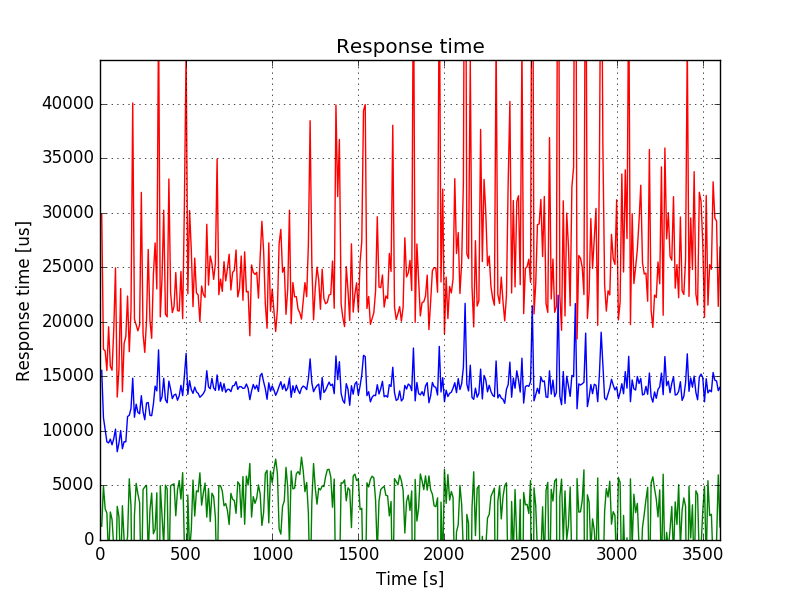
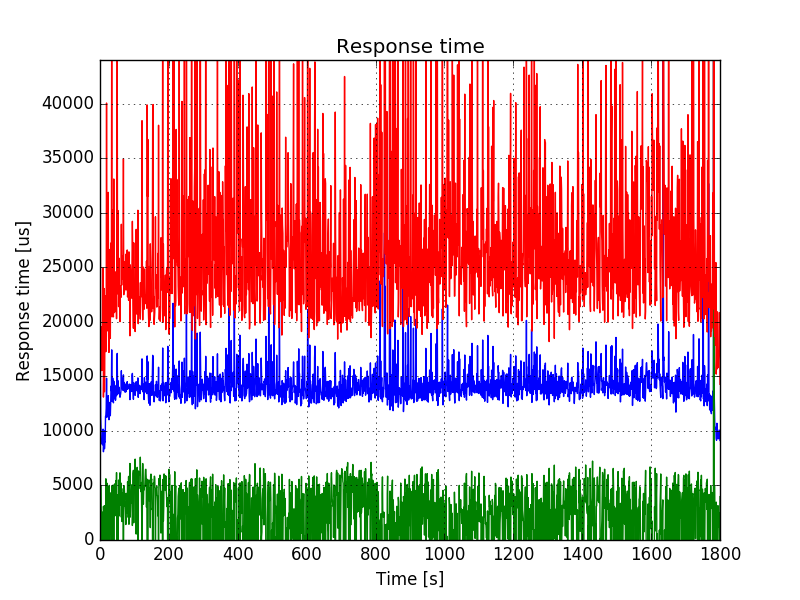
Add mising statistics for m/m/1

diff --git a/reports/milestone3/milestone3.tex b/reports/milestone3/milestone3.tex
@@ -86,13 +86,15 @@ Build an M/M/1 model of your entire system based on the stability trace that you
 
 In M/M/1 model we have one queue and one server. As server we will consider memcached server. Since there are actually 3 memcached servers processing requests, we will have to calculate the service rate accordingly. We do not consider clients as a part of our system - as the system we take our middleware and connected memcached servers.
 
-For this model we take server discipline First Come First Served, with no buffer limitations. The population size is 192 clients and the system is a closed one.
+For this model we take server discipline First Come First Served, with no buffer limitations. The population size is 192 clients and the system is a closed one. All values have been calculated based on formulas in Box 31.1 from the course book.
+
+In order to provide more detailed analysis I have enhanced logging inside the middleware (see the appendix for detailed changes). Therefore I had to rerun the stability trace (plots provided in the appendix) as well as other experiments, from which data is used in the next sections. Logs for the repeated stability trace are in files: mm1\_1, mm1\_2, mm1\_3, mm1\_parsed (see appendix for links). I run the new experiment for 30 minutes (which was enough to prove that the system was stable and to gather appropriate data).
 
 Throughput measured by the memaslap clients was equal to 13758 operations/second. Therefore, I take arrival rate $\lambda = 13758 \textrm{ ops/s}$.
 
 One approach to calculate the service rate is to take maximum throughput measured during the experiment. This approach has been suggested during the tutorial and gives us a lower bound on a service rate. This is because if system was able at some point in time to have this performance, it means that it is able to perform at least that well. Since the running time of the experiment was pretty long (30 minutes), we can assume that this approximation is good enough.
 
-Another approach to do this would be to calculate the number of requests being actively processed in the middleware, which corresponds to the average parallelism in the middleware. We would then assume that the service time is average time spent in the servers divided by the number of active threads. We still would need to take into the account that this time includes requests being sent over the network, but we could also treat network as a queue. Since servers have only 1 thread working the requests will partially wait in the queue of the server and partially this waiting period will be included in the time spent in the network. However, this approach proved to be inaccurate. For this task I got the following results: on average 38.15 getter threads are busy processing requests and there are on average 1.05 requests in all setter threads (there are 3 of them). So, on average, there are $m = 39.21$ on the fly (sum based on more precise numbers). That would mean service rate approximately 13893 requests/second and would result in a very high utilization - around 99\%. For the second task, however, utilization calculated using this approach resulted in utilization over 1. This is because in order to use this method we have to assume that memcached servers are busy almost all the time and time spent in the network, even without network, would be spent in the queue. However, this is not the case and therefore results of this method are unsatisfactory. 
+Another approach to do this would be to calculate the number of requests being actively processed in the middleware, which corresponds to the average parallelism in the middleware. We would then assume that the service time is average time spent in the servers divided by the number of active threads. We still would need to take into the account that this time includes requests being sent over the network, but we could also treat network as a queue. Since servers have only 1 thread working the requests will partially wait in the queue of the server and partially this waiting period will be included in the time spent in the network. However, this approach proved to be inaccurate. For this task I got the following results: on average 38.15 getter threads are busy processing requests and there are on average 1.05 requests in all setter threads (there are 3 of them). So, on average, there are $m = 39.21$ on the fly (sum based on more precise numbers). That would mean service rate approximately 13893 requests/second and would result in a very high utilization - around 99\%. For the second task, however, utilization calculated using this approach was over 1. This is because in order to use this method we have to assume that memcached servers are busy almost all the time and time spent in the network, even without network, would be spent in the queue. However, this is not the case and therefore results of this method are unsatisfactory. 
 
 %I had to improve the logging in my middleware (see apendix) in order to log also current numbers of busy getter threads and number of requests processed currently by setter requests (i.e. number of set requests that have been taken out of the queue but the response for them has not yet been sent to the client). This made it necessary to repeat the experiment.
 
@@ -103,20 +105,18 @@ $\mu = 16701\textrm{ req/s}$.
 %$$\mu \approx \frac{39.21}{2841.63} \cdot 10^6 \textrm{ requests/second} \approx 13892.53 \textrm{ requests/second}$$
 %In order to calculate mean service rate which includes that many requests are processed in parallel, I had to find out the average number of requests being in the service. In order to do that I had to make some changes in my code (described in the appendix) i I 
 This enables us to calculate the offered load:
-$\rho \approx 82.38\%$
-The offered load is below 1, which means that the system is stable.
-
-The utilization can be considered to be pretty high. It stems from the fact that for stability experiment I have used only 16 threads. As the experiments from second milestones have shown, for 16 threads we get worse performance than for the higher number of threads. This means that threads are mostly busy and since the high utilization of the system. What is more, the component that causes this high utilization is accepting thread. As I have pointed out in the report for milestone 2, this component at some point becomes the bottleneck of the system. For stability trace It was still not the case (too low number of threads), but this component either way is not that effective and affects the offered load.
-
-% Maybe remove
-It is also worth pointing out, that the average number of set requests being serviced is quite low, considering that there are 3 setter threads (one for each queue) which process requests asynchronously (one thread can process more than one requests at the same time). This is because set requests are only 1\% of all requests, so they are not many of them and although it takes longer to process them, the low number of them leads to low number of them being processed at the same time.
-
-The  probability that there are zero jobs in the system equals: $1 - \rho \approx 17.62\%$. 
-This result is not consistent with the data collected from the middleware. We can calculate that the first percentile of number of active getter threads is already equal 8. This means that 99\% of the time they are not less than 8 get requests being processed in the system. This contradicts result from the theory. This can be explained in a following way: M/M/1 models do not take into the account the possibility that several requests can be processed at the same time. Based on the high service rate from model we can get that the single request is processed really quickly, so that they don't queue that much. However, in reality, requests are processed for a longer time, but they are several requests processed in parallel. In a similar way, when we calculate the average number of requests in the system, we get contradicting results. We have:
+$\rho \approx 82.38\%$.
+The offered load is below 1, which means that the system is stable. It would mean that $82.38\%$ of the time the server is busy.
+%The utilization can be considered to be pretty high. It stems from the fact that for stability experiment I have used only 16 threads. As the experiments from second milestones have shown, for 16 threads we get worse performance than for the higher number of threads. This means that threads are mostly busy and since the high utilization of the system. What is more, the component that causes this high utilization is accepting thread. As I have pointed out in the report for milestone 2, this component at some point becomes the bottleneck of the system. For stability trace It was still not the case (too low number of threads), but this component either way is not that effective and affects the offered load.
+Consequently we get that the  probability that there are zero jobs in the system equals: $1 - \rho \approx 17.62\%$. 
+This result is not consistent with the data collected from the middleware. We can calculate that the first percentile of number of active getter threads is already equal 8. This means that 99\% of the time they are not less than 8 get requests being processed in the system. This contradicts result from the theory. This can be explained in a following way: M/M/1 models do not take into the account the possibility that several requests can be processed at the same time. Based on the high service rate from model we get that the single request is processed really quickly, so that they don't queue that much. However, in reality, requests are processed for a longer time, but they are several requests processed in parallel. In a similar way, when we calculate the average number of requests in the system, we get contradicting results. We have:
 $E[n] 
 %=\frac{\rho}{1 - \rho} \approx{82.38\%}/{17.62\%} 
 \approx 4.67$.
-We know from the collected logs that on average there are around 39 requests being processed at the same time. This means that they are at least 39 requests in the whole system. The reason for this discrepancy is the same as mentioned above - M/M/1 model does not consider the parallelism. 
+We know from the collected logs that on average there are around 39 requests being processed at the same time. This means that they are at least 39 requests in the whole system. The reason for this discrepancy is the same as mentioned above - M/M/1 model does not consider the parallelism. Variance for $n$ was calculated to be around $26.5$, measured value was equal around $118.5$, which is around $4.5$ times higher. This value is much smaller than the square ratio of mean values, which implies that the number of jobs in our system was, proportionally, less varied.
+
+% Remove if not enough space
+%It is also worth pointing out here, that measured average number of set requests being serviced is quite low, considering that there are 3 setter threads (one for each queue) which process requests asynchronously (one thread can process more than one requests at the same time). This is because set requests are only 1\% of all requests, so they are not many of them and although it takes longer to process them, the low number of them leads to low number of them being processed at the same time.
 
 When we take a look at calculated mean number of jobs in the queue and in the service we still see discrepancies, but there is one thing that is similar to measured values:
 $E[n_q] 
@@ -125,7 +125,7 @@ $E[n_q]
 $E[n_s] 
 %= \rho 
 \approx 0.82$.
-The ratio of jobs in the queue to jobs in the system is equal to $\rho \approx 0.823$ (simple formulas transformation). Under the assumption that almost all of 192 requests are in the system, we have that around 39 requests are being processed (see earlier) and therefore $192-39 = 153$ jobs are in the queue. The ratio between jobs in the queue and jobs in the system equals here to $\frac{153}{192} \approx 0.797$. These values are relatively close to each other, so we can say that this ration has been well predicted by our model.
+The ratio of jobs in the queue to jobs in the system is equal to $\rho \approx 0.823$ (simple formulas transformation). Under the assumption that almost all of 192 requests are in the system, we have that around 39 requests are being processed (see earlier) and therefore $192-39 = 153$ jobs are in the queue. The ratio between jobs in the queue and jobs in the system equals here to $\frac{153}{192} \approx 0.797$. These values are relatively close to each other, so we can say that this ration has been well predicted by our model. Variance for $n_q$ was calculated to equal around $25.0$ - we cannot, however, compare this with measured data, since we didn't provide appropriate logging facilities for that (we're not counting number of requests in the queue). 
 
 %The probability that there are $n$ jobs in the system equals approximately $p_n = 0.97\% \cdot 99.03\%^n$. We can also calculate how many requests are in system in total:
 %$$E[n] = \frac{\rho}{1 - \rho} \approx{99.03\%}/{0.98\%} \approx 102.52$$
@@ -142,10 +142,37 @@ $E[w]
 $E[s] 
 %= \frac{1}{\mu} 
 \approx \SI{59.88}{\micro\second}$.
-The corresponding values measured by the middleware equal: \SI{3203}{\micro\second} for time spent in the queue (which is part of the system representation) and \SI{2841}{\micro\second} for the time spend in the servers. We can see that measured time spent in the servers is approximately 47 times higher then calculated service time. This value is comparable to 39 requests on the fly (mentioned earlier), but it better corresponds to the parallelism of the middleware, since it also reflects the fact that servers do not have to be busy all the time. Let's not forget here that requests also spend some time waiting for the accepting thread to be parsed, so that the difference between waiting time predicted and measured is even higher.
+The corresponding values measured by the middleware equal: \SI{3203}{\micro\second} for time spent in the queue (which is part of the system representation) and \SI{2841}{\micro\second} for the time spend in the servers. We can see that measured time spent in the servers is approximately 47 times higher then calculated service time. This value is comparable to 39 requests on the fly (mentioned earlier), but it better corresponds to the parallelism of the middleware, since it also reflects the fact that servers do not have to be busy all the time. Below we present some more statistics:
+%Let's not forget here that requests also spend some time waiting for the accepting thread to be parsed, so that the difference between waiting time predicted and measured is even higher.
 
-%TODO: more statistics
-To sum up, M/M/1 model does not reflect our middleware properly. It does not take into the account the parallelism and predicted values differ significantly. I have not included calculations for more values, like variance or percentiles, cause they also won't correspond to the values measured by the middleware.
+{\small
+\begin{center}
+\begin{tabular}{|c|c|c|c|c|}
+\hline & $Var[r]$ ($\SI{}{\micro\second}^2$) & 90-th perc. $r$ ($\SI{}{\micro\second}$) & Var[w] ($\SI{}{\micro\second}^2$) & 90-th perc. $w$ ($\SI{}{\micro\second}^2$)\\
+\hline Calculated & 115482 & 781 & 111896 & 717\\
+\hline Measured & 180146340 & 13993 & 117574816 & 10476 \\
+\hline Ratio & 1560 &  17.9 & 1051 & 14.6\\
+\hline
+\end{tabular}
+\end{center}
+}
+We can clearly see that measured statistics are much higher, because of the parallelism and the fact that corresponding mean values are also higher. Bigger difference in variance is because when calculating variance we are dealing with squares, so the values are also bigger (and so is the ratio).
+
+Another statistics calculated based on the model, but not comparable to the measured values (not enough measured data) are as follows:
+
+{\small
+\begin{center}
+\begin{tabular}{|c|c|}
+\hline Mean number of jobs served in one busy period & 5.7 \\
+\hline Variance of number of jobs served in one busy period & 274.7 \\
+\hline Mean busy period duration & \SI{340}{\micro\second} \\
+\hline Variance of the busy period & $\SI{539929}{\micro\second}^2$ \\
+\hline
+\end{tabular}
+\end{center}
+}
+
+To sum up, M/M/1 model does not reflect our middleware properly. It does not take into the account the parallelism and predicted values differ significantly.
 
 % TODO: explain
 %$$E[r] = \frac{1/\mu^2}{(1 - \rho)^2} \approx \frac{1/13893^2}{0.97\%^2}$$
@@ -570,30 +597,41 @@ As we can see from above table, the interactive response time law corresponds we
 
 \pagebreak
 
+\section*{Logfile listing}
+
+\begin{tabular}{|c|p{12.0cm}|}
+\hline \textbf{Short name }& \textbf{Location} \\ 
+\hline  mm1\_1 & \url{https://gitlab.inf.ethz.ch/matusiaa/asl-fall16-project/blob/master/logs/milestone3/mm1_1.log}\\ 
+\hline mm1\_2 & \url{https://gitlab.inf.ethz.ch/matusiaa/asl-fall16-project/blob/master/logs/milestone3/mm1_2.log}\\ 
+\hline mm1\_3 & \url{https://gitlab.inf.ethz.ch/matusiaa/asl-fall16-project/blob/master/logs/milestone3/mm1_3.log}\\ 
+\hline mm1\_parsed & \url{https://gitlab.inf.ethz.ch/matusiaa/asl-fall16-project/blob/master/logs/milestone3/mm1_parsed.log}\\ 
+\hline 
+\end{tabular}
+
+\pagebreak
+
 \section*{Appendix}
 
 \subsection{Changes in the source code}
-In order to measure the number of requests being actively processed in the middleware I had to enrich my source code in 2 counters - one keeping track of number of active getter workers, the other one keeping track of set requests for which response we are waiting from the servers. With these 2 counters is connected a necessary synchronization (all getter threads have access to the first counter, all setter threads have access to the second counter), which may decrease the performance of the middleware slightly.
-% TODO: add that it doesn't influence it significantly 
+In order to measure the number of requests being actively processed in the middleware I had to enrich my source code in 2 counters - one keeping track of number of active getter workers, the other one keeping track of set requests for which response we are waiting from the servers. With these 2 counters is connected a necessary synchronization (all getter threads have access to the first counter, all setter threads have access to the second counter), which might have decreased the performance of the middleware slightly. For repeated stability trace we got lower throughput: 13758 ops/s, compared to the original experiment: 14289 ops/s. This can be, however, also explained by the fact that these experiments were run on different machines.
 
-%TODO: add for section 3
-
+For the section \ref{sec:network-of-queues} I had to also log additional times: time of processing by the accepting thread and time from dequeueing till forwarding first request to the server. 
 
 \subsection{Stability trace}
 
-Because of the above changes in the source code, I have presented in the figures \ref{fig:mm1-throughput} and \ref{fig:mm1-response-time}. After the initial warm-up phase system achieves stability and stays stable for the remaining duration of the experiment.
+Because of the above changes in the source code, I have presented performance of my system on figures \ref{fig:mm1-throughput} and \ref{fig:mm1-response-time}. After the initial warm-up phase system achieves stability and stays stable till the cool-down phase.
 
 \begin{figure}
 \centering
 \includegraphics[width=0.95\linewidth]{plots/mm1_throughput}
-\caption{Stability experiment revised - throughput}
+\caption{Stability experiment repeated - throughput}
 \label{fig:mm1-throughput}
 \end{figure}
 
 \begin{figure}
 \centering
 \includegraphics[width=0.95\linewidth]{plots/mm1_response_time}
-\caption{Stability experiment revised - response time}
+\caption{Stability experiment repeated - response time}
 \label{fig:mm1-response-time}
 \end{figure}
 

diff --git a/parse/milestone_3/parse_logs_middleware.py b/parse/milestone_3/parse_logs_middleware.py
@@ -3,7 +3,7 @@ import os
 import math
 import statistics as st
 
-stats_cnt = 5
+stats_cnt = 3
 times_cnt = 6
 
 # per_values = [25, 50, 90]
@@ -66,7 +66,7 @@ def parse_middleware_times_single(fname, type):
 	for i in range(0, stats_cnt):
 		cnt = len(res[i])
 		res[i] = res[i][int(cnt / time_measured):int((time_measured - 1) * cnt / time_measured)]
-		data += [str(np.average(res[i]))] #, str(np.std(res[i]))]
+		data += [str(np.average(res[i])), str(np.percentile(res[i], 90))] #str(np.var(res[i]) * 10**(-12))]
 		for p in per_values:
 			data.append(str(np.percentile(res[i], p)))
 
@@ -91,7 +91,7 @@ def parse_middleware_times_single(fname, type):
 	# print(np.average(numbers))
 	# print(np.std(numbers))
 
-	data += [str(np.average(numbers))]
+	data += [str(np.average(numbers)), str(np.var(numbers))]
 
 	return data
 

diff --git a/parse/milestone_3/parse_logs.py b/parse/milestone_3/parse_logs.py
@@ -361,7 +361,7 @@ def draw_mm1_plots():
 	del response_times_std[-1]
 
 	plt.ylim([0, 27500])
-	plt.xlim([0, 3600])
+	plt.xlim([0, 1800])
 	plt.grid(True)
 	plt.plot(x, tps)
 	plt.title('Aggregated throughput')
@@ -371,7 +371,7 @@ def draw_mm1_plots():
 	plt.clf()
 
 	plt.ylim([0, 44000])
-	plt.xlim([0, 3600])
+	plt.xlim([0, 1800])
 	plt.grid(True)
 	# plt.errorbar(x, response_times, response_times_std)
 	plt.plot(x, response_times)

diff --git a/parse/milestone_3/parse_logs_vms.py b/parse/milestone_3/parse_logs_vms.py
@@ -152,7 +152,7 @@ def parse_mm1(vm_number):
 				if line.find('Total Statistics (') == -1:
 					i += 2
 					line = lines[i].split()
-					data.append([str(time * 10), line[3], line[8], line[9]])
+					data.append([str(time), line[3], line[8], line[9]])
 					time += 1
 				else:
 					# Total average response time and std
